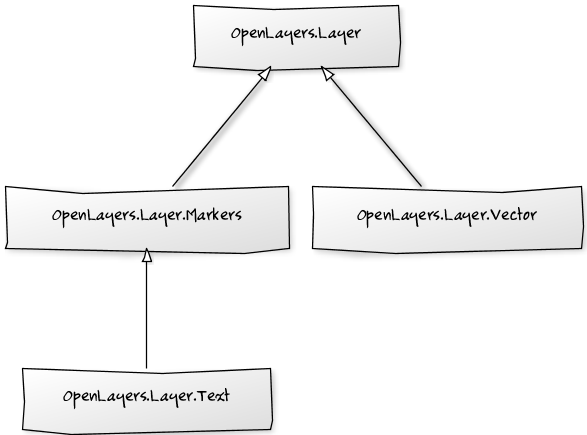
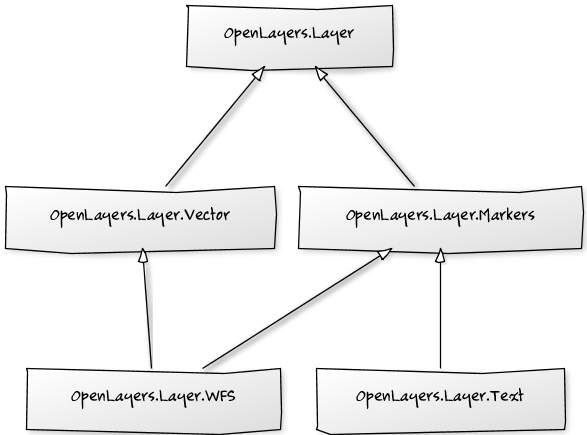
Working on

diff --git a/index.html b/index.html
@@ -5,7 +5,7 @@
 <!--[if gt IE 8]><!-->  <html class="no-js" lang="en"> <!--<![endif]-->
     <head>
         <meta charset="utf-8">
-        <meta http-equiv="X-UA-Compatible" content="IE=edge,chrome=1">
+        <!--        <meta http-equiv="X-UA-Compatible" content="IE=edge,chrome=1">-->
 
         <title>Once Upon a Time... OpenLayers</title>
 
@@ -60,7 +60,7 @@
         <section class="slide">
             <h1><span class="openlayers">OpenLayers</span></h1>
         </section>
-        
+
         <section class="slide">
             <h2>History</h2>
 
@@ -206,7 +206,7 @@
             <h2>Examples...</h2>
 
             <p>...from the <strong><em>Chapter 1 - Mapping Basics</em></strong> of the
-                <a href="https://github.com/acanimal/Openlayers-Cookbook" target="_blank">OpenLayers Cookbook</a> 
+                <a href="https://github.com/acanimal/Openlayers-Cookbook">OpenLayers Cookbook</a> 
                 source code:</p>
 
             <img src="images/see_examples.gif" alt="Lets go to see the examples"/>
@@ -243,7 +243,8 @@
             <h2>Raster layers</h2>
 
             <ul>
-                <li><span class="spotlight">Raster</span> layers shows imagery from different service providers: 
+                <li><span class="spotlight">Raster</span> layers shows imagery (or a <a href="http://en.wikipedia.org/wiki/Bitmap">bitmap</a>) from 
+                    different service providers: 
                     Google, Bing, a WMS server, OSM, etc</li>
                 <li>All <span class="spotlight">Raster</span> layers inherits from 
                     the base class <span class="olclass">OpenLayers.Layer</span>. There are two main subclasses: 
@@ -323,12 +324,12 @@
         <section class="slide">
             <h1>Time for action...</h1>
         </section>
-        
+
         <section class="slide">
             <h2>Examples...</h2>
 
             <p>...from the <strong><em>Chapter 2 - Raster Layers</em></strong> of the
-                <a href="https://github.com/acanimal/Openlayers-Cookbook" target="_blank">OpenLayers Cookbook</a> 
+                <a href="https://github.com/acanimal/Openlayers-Cookbook">OpenLayers Cookbook</a> 
                 source code:</p>
 
             <img src="images/see_examples.gif" alt="Lets go to see the examples"/>
@@ -354,7 +355,6 @@
                 </li>
             </ul>
 
-
         </section>
 
         <section class="slide">
@@ -362,23 +362,52 @@
         </section>
 
         <section class="slide">
+
             <h2>Vector layers</h2>
 
-            <p>Describe features, renderers, strategies, protocols, etc</p>
+            <ul>
+                <li><span class="spotlight">Vector</span> layers allows us to work 
+                    with <span class="spotlight">features</span></li>
+                <li>A <span class="spotlight">feature</span> is digital representation 
+                    of something in the real world: <em>city, river, mountain, ...</em></li>
+                <li>A <span class="spotlight">feature</span> can have <span class="spotlight">attributes</span> 
+                    attached to it: <em>city name, population, etc</em></li>
+            </ul>
 
             <!--
             [OpenLayers.Layer]^-[OpenLayers.Layer.Vector]
             [OpenLayers.Layer]^-[OpenLayers.Layer.Markers]
             [OpenLayers.Layer.Markers]^-[OpenLayers.Layer.Text]
+            [OpenLayers.Layer.Vector]^-[OpenLayers.Layer.WFS]
+            [OpenLayers.Layer.Markers]^-[OpenLayers.Layer.WFS]
             -->
-            <img src="images/vector_hierarchy.png" alt="OpenLayers vector layers hierarchy" />    
+
+            <img src="images/vector_hierarchy.png" height="300" alt="OpenLayers vector layers hierarchy" />    
 
             <h3>Notes</h3>
             <ul>
-                <li>WFS was deprecated on OpenLayers 2.12. You can do the same simply using Vector class</li>
+                <li><span class="olclass">OpenLayers.Layer.WFS</span> was deprecated on OpenLayers 2.12. You can do the same simply using Vector class</li>
             </ul>
 
         </section>
+
+        <section class="slide">
+            <h2>Vector layers</h2>
+
+            <span style="color: red">TODO: Hierarchy with OpenLayers.Feature and OpenLayers.Feature.Vector</span>
+            
+            <h3>Feature relationships</h3>
+            <ul>
+                <li>A <span class="spotlight">feature</span> is represented by a <span class="spotlight">geometry</span> instance</li>
+                <li>A <span class="spotlight">feature</span> is represented by a <span class="spotlight">geometry</span> instance</li>
+            </ul>
+
+            <span style="color: red">TODO: Describe features, renderers, strategies, protocols, etc</span>
+            
+
+        </section>
+
+
 
         <section class="slide">
             <h2>Sample Vector layers</h2>
